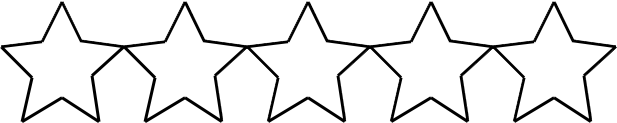
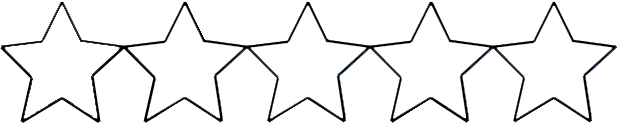
más detalles de color

diff --git a/src/components/RangeStar.css b/src/components/RangeStar.css
@@ -2,9 +2,10 @@
     width: min-content;
     display: flex;
     justify-content: flex-start;
-    align-items: flex-start ;
+    align-items: flex-start;
     align-content: flex-start;
 }
+
 .container-range {
     margin: 0 auto;
     width: 10em;
@@ -14,8 +15,10 @@
     background-repeat: no-repeat;
     position: relative;
 }
+
 .range {
     position: absolute;
     height: 100%;
     z-index: -1;
+    background: #0DCAF0
 }

diff --git a/src/components/RangeStar.js b/src/components/RangeStar.js
@@ -7,7 +7,6 @@ export const RangeStar = (props) => {
             <div className='container-range'>
                 <div className='range'
                     style={{
-                        background: 'orange',
                         width: `${props.range}%`
                     }}></div>
             </div>
